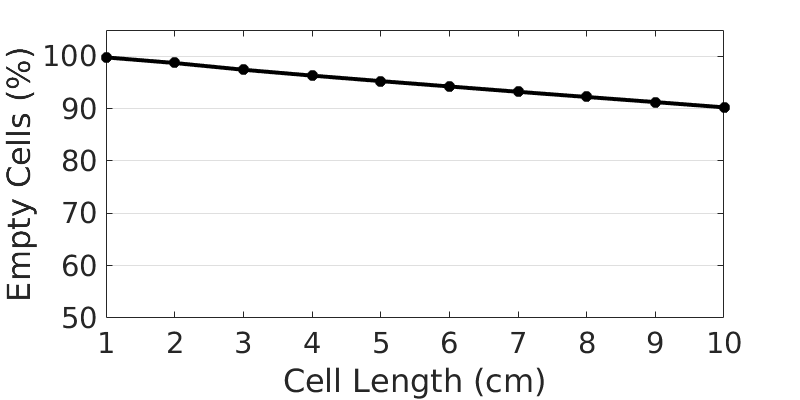
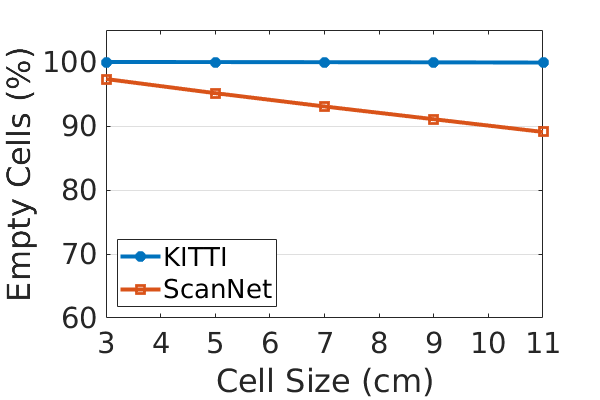
update ReadMe and +traces

diff --git a/PointFeature/kitti_empty_cell.py b/PointFeature/kitti_empty_cell.py
@@ -1,0 +1,61 @@
+"""
+    Sparsity of KITTI
+"""
+
+import numpy as np
+import torch
+import glob
+import os
+import sys
+
+data_dir = "/home/dtc/Data/KITTI"
+
+cell_size_arr = np.arange(0.03, 0.21, 0.02)
+
+original_dir = os.path.join(data_dir, "PointPillars/testing/velodyne_reduced")
+save_dir = "../Result/EmptyCell"
+if not os.path.exists(save_dir):
+    os.makedirs(save_dir)
+
+empty_filename = "kitti_empty_cell.csv"
+save_file = os.path.join(save_dir, empty_filename)
+
+bin_files = glob.glob(os.path.join(original_dir, "*.bin"))
+
+n_file = 100  # calculate n_file only
+bin_files = bin_files[:n_file]
+
+result = []
+
+for cell_size in cell_size_arr:
+
+    ratio_empty_tot = 0.0
+    for bin_file in bin_files:
+        print("cell size:", cell_size, bin_file)
+        data = np.fromfile(bin_file, "<f4")
+        data = np.reshape(data, (-1, 4))
+        coords = data[:, :3]
+
+        min_coords = np.min(coords, axis=0)
+        max_coords = np.max(coords, axis=0)
+        n_coords = (max_coords - min_coords) // cell_size + 1
+        n_coords = n_coords.astype("int32")
+        #print(n_coords)
+        # sys.exit()
+        grid = np.zeros((n_coords[0], n_coords[1], n_coords[2]))
+
+        for point in coords:
+            point_coords = (point - min_coords) // cell_size
+            point_coords = point_coords.astype("int32")
+            grid[point_coords[0], point_coords[1], point_coords[2]] = 1
+
+        ratio_empty_tot += (np.prod(grid.shape) - np.sum(grid)) / np.prod(grid.shape) * 100
+    result_item = [cell_size, ratio_empty_tot/n_file]
+    print("------", result_item)
+    result.append(result_item)
+
+result = np.vstack(result)
+print(np.array_str(result, precision=2, suppress_small=True))
+
+print("saving file to:", save_file)
+np.savetxt(save_file, result, fmt="%.3f,%.2f", header="cell_size,empty_ratio(%)")

diff --git a/PointFeature/scannet_empty_cell.py b/PointFeature/scannet_empty_cell.py
@@ -10,23 +10,26 @@ import sys
 
 scannet_dir = "/home/dtc/Data/ScanNet"
 
-cell_size_arr = np.arange(0.01, 0.11, 0.01)
+cell_size_arr = np.arange(0.03, 0.21, 0.02)
 
 # path to pth
 original_dir = os.path.join(scannet_dir, "Pth/Original")
-result_dir = os.path.join(scannet_dir, "Result")
+save_dir = "../Result/EmptyCell"
+if not os.path.exists(save_dir):
+    os.makedirs(save_dir)
 
-empty_filename = "empty.csv"
-result_file = os.path.join(result_dir, empty_filename)
-print("result file:", result_file)
+empty_filename = "scannet_empty_cell.csv"
+save_file = os.path.join(save_dir, empty_filename)
 
 pth_files = glob.glob(os.path.join(original_dir, "*.pth"))
+
+n_pth_file = 100
+pth_files = pth_files[:n_pth_file]
 
 result = []
 
 for cell_size in cell_size_arr:
 
-    n_pth_file = len(pth_files)
     ratio_empty_tot = 0.0
     for pth_file in pth_files:
         print("cell size:", cell_size, pth_file)
@@ -52,6 +55,7 @@ for cell_size in cell_size_arr:
 result = np.vstack(result)
 print(np.array_str(result, precision=2, suppress_small=True))
 
-np.savetxt(result_file, result, fmt="%.3f,%.2f", header="cell_size,empty_ratio(%)")
+print("saving file to:", save_file)
+np.savetxt(save_file, result, fmt="%.3f,%.2f", header="cell_size,empty_ratio(%)")
 
 

diff --git a/Matlab/empty_cell.m b/Matlab/empty_cell.m
@@ -2,17 +2,26 @@
 
 clear,clc
 
-f = '/home/dtc/Data/ScanNet/Result/backup/empty.csv';
-data = csvread(f, 1, 0);
-data(:, 1) = data(:, 1) * 100; % cm
+f_kitti = '../Result/EmptyCell/kitti_empty_cell.csv';
+f_scannet = '../Result/EmptyCell/scannet_empty_cell.csv';
 
-figure(1),clf
-set(gcf, 'Position', [200, 800, 800, 400])
-plot(data(:, 1), data(:, 2), 'k-*', 'markersize', 8, 'linewidth', 3)
+data_kitti = csvread(f_kitti, 1, 0);
+data_kitti(:, 1) = data_kitti(:, 1) * 100; % cm
+
+data_scannet = csvread(f_scannet, 1, 0);
+data_scannet(:, 1) = data_scannet(:, 1) * 100;
+
+figure(1),clf, hold on
+set(gcf, 'Position', [200, 800, 600, 400])
+plot(data_kitti(data_kitti(:, 1)<12, 1), data_kitti(data_kitti(:, 1)<12, 2), '-*', 'markersize', 8, 'linewidth', 3)
+plot(data_scannet(data_scannet(:, 1)<12, 1), data_scannet(data_scannet(:, 1)<12, 2), '-s', 'markersize', 8, 'linewidth', 3)
 set(gca, 'ygrid', 'on', 'fontsize', 22)
-xticks([1:1:10])
-yticks([50:10:100])
-xlabel('Cell Length (cm)')
+xticks([3:1:11])
+%yticks([50:10:100])
+legend('KITTI', 'ScanNet', 'location', 'southwest')
+xlabel('Cell Size (cm)')
 ylabel('Empty Cells (%)')
-xlim([1, 10])
-ylim([50, 105])
+xlim([3, 11])
+ylim([60, 105])
+box on
+hold off

diff --git a/Validation/memory_valid.py b/Validation/memory_valid.py
@@ -23,7 +23,7 @@ scannet_dir = '/home/dtc/Data/ScanNet'
 
 device = "alienware"
 
-model_name = 'scannet_m8_rep2_residualFalse-000000560.pth'
+model_name = 'scannet_m16_rep2_residualFalse-000000570.pth'
 
 # Random, Grid, Hierarchy
 data_type = "Random"

diff --git a/README.md b/README.md
@@ -62,7 +62,7 @@
     git_dir =
     scannet_dir =
     ```
-    Files are saved to `scannet_dir/Pth/Original`
+    Files are saved to `{scannet_dir}/Pth/Original`
 
 ## Training
 
@@ -90,14 +90,20 @@
 
 ## Data Simplification
 
+Data simplification is implemented in C++ under `Cpp/sample_data`. Require CGAL 4.11.
+
+```shell
+  sudo apt-get install libcgal-dev
+```
+
 1.  random simplification. `Sampling/random_crop_data.py`
 
     ```python
     scannet_dir =
     device = a_tag_for_your_device
     ```
-    Simplified data are saved to `scannet_dir/Pth/Random/`. Folder structure: `{ratio of point cloud size}`  
-    Data processing time are saved to `../Result/{device}/Random/`. Filename structure: `time.txt.{ratio of point cloud size}`
+    Simplified data are saved to `{scannet_dir}/Pth/Random/`. Folder structure: `{ratio of point cloud size}`  
+    Data processing time are saved to `Result/{device}/Random/`. Filename structure: `time.txt.{ratio of point cloud size}`
 
 2.  grid simplificaiton. `Sampling/grid_crop_data.py`
 
@@ -105,8 +111,8 @@
     scannet_dir =
     device =
     ```
-    Simplified data are saved to `scannet_dir/Pth/Grid/`. Folder structure: `{ratio of point cloud size}`  
-    Data processing time are saved to `../Result/{device}/Grid/`. Filename structure: `time.txt.{ratio of point cloud size}`
+    Simplified data are saved to `{scannet_dir}/Pth/Grid/`. Folder structure: `{ratio of point cloud size}`  
+    Data processing time are saved to `Result/{device}/Grid/`. Filename structure: `time.txt.{ratio of point cloud size}`
 
 3.  hierarchy simplification. `Sampling/hierarchy_crop_data.py`
 
@@ -114,13 +120,13 @@
     scannet_dir =
     device =
     ```
-    Simplified data are saved to `scannet_dir/Pth/Hierarchy/`. Folder structure: `{ratio of point cloud size}`  
-    Data processing time are saved to `../Result/{device}/Hierarchy/`. Filename structure: `time.txt.{ratio of point cloud size}`
+    Simplified data are saved to `{scannet_dir}/Pth/Hierarchy/`. Folder structure: `{ratio of point cloud size}`  
+    Data processing time are saved to `Result/{device}/Hierarchy/`. Filename structure: `time.txt.{ratio of point cloud size}`
 
 
 ## Validation
 
-1.  All performance metrics except memory. `Validation/main_valid.py`
+1.  For IOU only. `Validation/main_valid.py`
 
     ```python
     scannet_dir =
@@ -128,12 +134,12 @@
     model_name = trained_model_in_../Model/
     data_type = [Random|Grid|Hierarchy]
     ```
-    Data are saved to `../Result/{device}/{model_name}/{data_type}/result_main.csv`. File structure
+    Data are saved to `Result/{device}/{model_name}/{data_type}/result_main.csv`. File structure
     ```plain
     ratio of point cloud, average number of points per point cloud, IOU, running time per point cloud, flop per point cloud, memory (do not use this value)
     ```
 
-2.  Memory only. Running on CPU. `Validation/valid_memory.py`
+2.  Everything except IOU. Running on CPU. `Validation/memory_valid.py`
 
     ```python
     scannet_dir =
@@ -141,14 +147,14 @@
     model_name =
     data_type =
     ```
-    Data are saved to `../Result/{device}/{model_name}/{data_type}/result_memory.csv`. File structure
+    Data are saved to `Result/{device}/{model_name}/{data_type}/result_memory.csv`. File structure
     ```plain
     ratio of point cloud, running time per point cloud, flop per point cloud, memory per point cloud
     ```
 
 ## Auxiliary
 
-1.  validate one point cloud. 'Validation/valid_one_point_cloud.py'
+1.  validate one point cloud. `Validation/valid_one_point_cloud.py`
 
     ```python
     scannet_dir =
@@ -157,13 +163,22 @@
     keep_ratio =
     pth_filename =
     ```
-    Data saved to `../tmp/{pth_filename}.{data_type}.{keep_ratio}`
+    Data saved to `tmp/{pth_filename}.{data_type}.{keep_ratio}`
 
 2.  show predication result for a point cloud. `Validation/valid_view_point_cloud.py`
+
     ```python
     pth_file = path_to_pth_file
     show_gt = [True|False] # show groundtruth?
     ```
+
+3.  scannet ratio of empty cells. `PointFeature/scannet_empty_cell.py`
+
+    Data are saved to `Result/EmptyCell/scannet_empty_cell.csv`
+
+4.  KITTI ratio of empty cells. `PointFeature/kitti_empty_cell.csv`
+
+    Data are saved to `Result/EmptyCell/kitti_empty_cell.csv`
 
 ## Folder Structure
 *   `Cpp`. C++ program for data simplification
